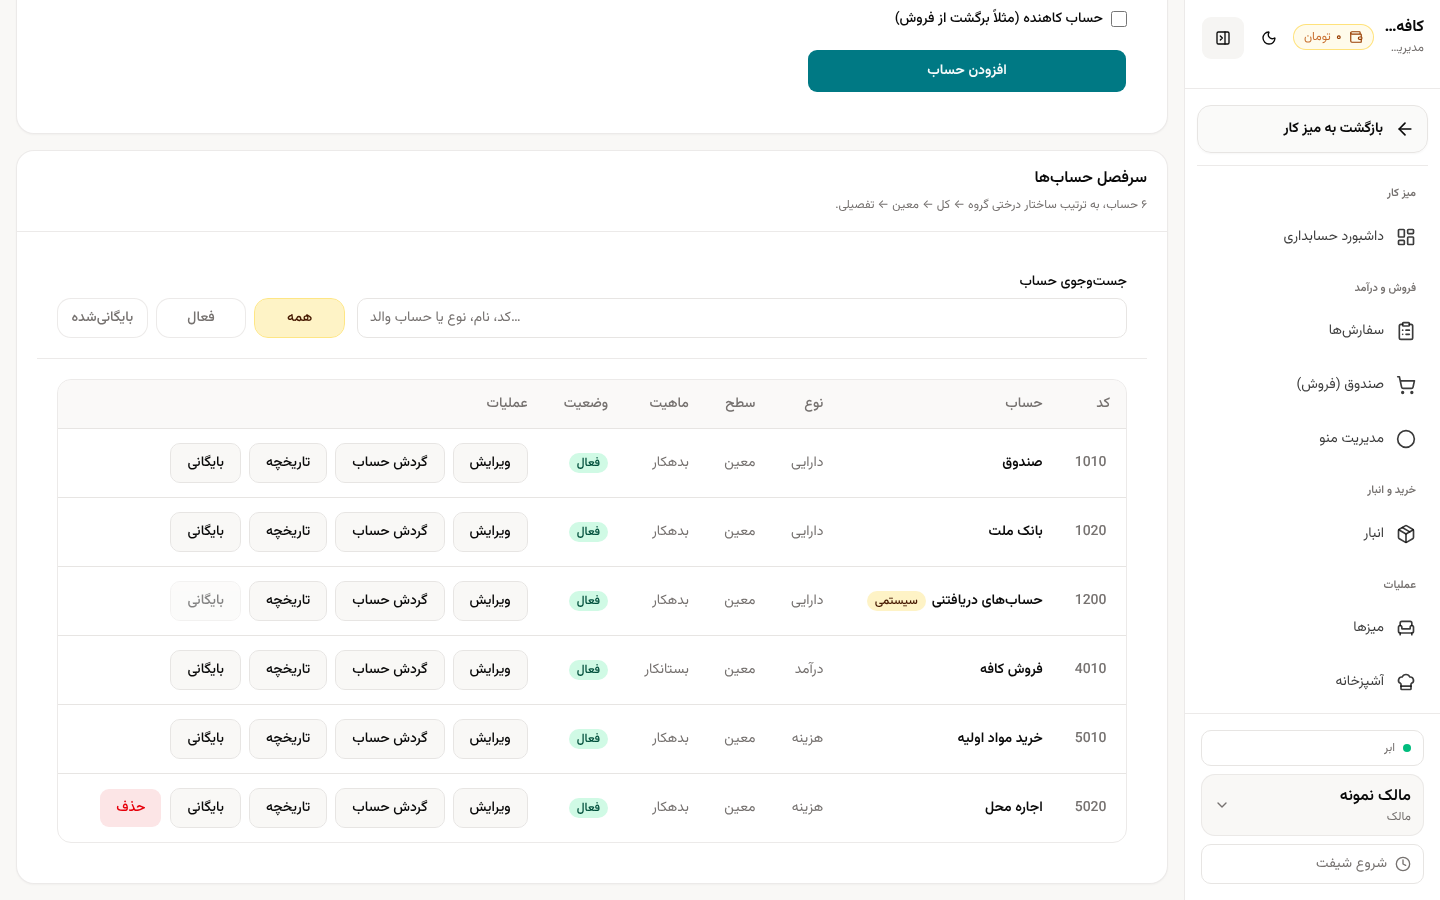
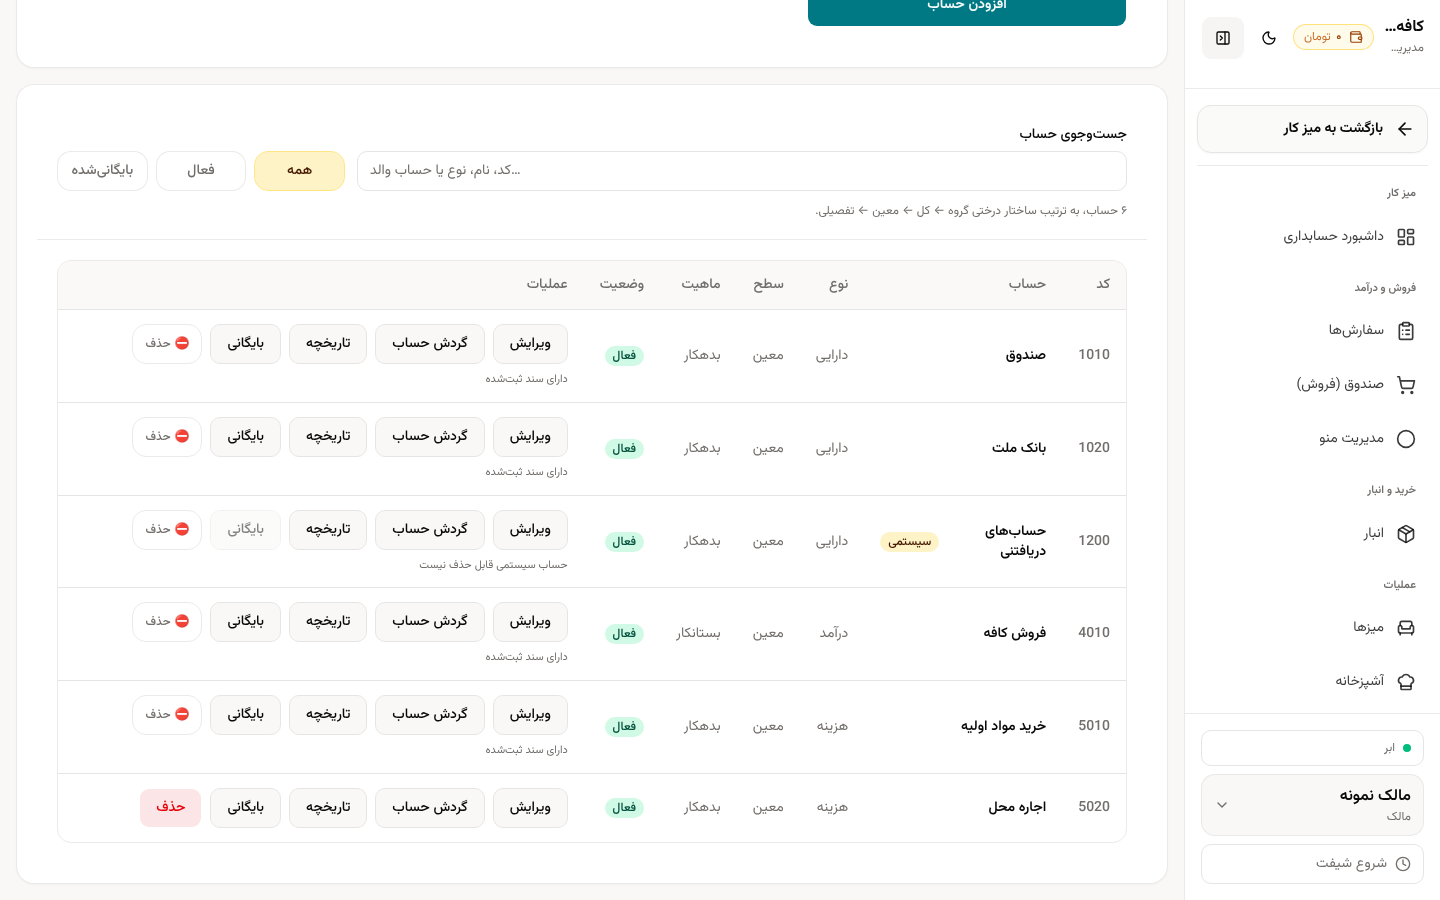
Restore the chart-of-accounts count line and re-record approved baselines
The card title was removed so the page header owns the heading, which also
silently dropped the account/filter count (SectionCard draws a description
only beside a title). The count now sits under the search.

Re-recorded, with Hamid's approval of the new look: chart of accounts (no
card title, explained delete buttons, count line) and the cheque register,
light and dark (branch per row, endorsed/returned badges from #828).

Claude-Session: https://claude.ai/code/session_019xScEoECprnaRnegWnz4w9

diff --git a/src/app/(app)/accounting/chart-of-accounts-section.tsx b/src/app/(app)/accounting/chart-of-accounts-section.tsx
@@ -509,14 +509,7 @@ export function ChartOfAccountsSection({
         </InfoBox>
       )}
 
-      <SectionCard
-        description={
-          filtering
-            ? `${formatPersianNumber(matchCount)} حساب از ${formatPersianNumber(accounts.length)} حساب با این فیلتر پیدا شد.`
-            : `${formatPersianNumber(accounts.length)} حساب، به ترتیب ساختار درختی گروه ← کل ← معین ← تفصیلی.`
-        }
-        bodyClassName="p-0"
-      >
+      <SectionCard bodyClassName="p-0">
         {!canEdit && localError ? <div className="px-4 pt-4 sm:px-5"><ErrorBox>{localError}</ErrorBox></div> : null}
         {notice ? (
           <div className="px-4 pt-4 sm:px-5">
@@ -566,6 +559,14 @@ export function ChartOfAccountsSection({
               ))}
             </div>
           </div>
+          {/* The count lives under the search, not in a card header: the page
+              header owns the title, and a SectionCard draws its description
+              only beside a title, so a header-less card would drop it. */}
+          <p className="mt-3 text-xs text-muted-foreground" aria-live="polite">
+            {filtering
+              ? `${formatPersianNumber(matchCount)} حساب از ${formatPersianNumber(accounts.length)} حساب با این فیلتر پیدا شد.`
+              : `${formatPersianNumber(accounts.length)} حساب، به ترتیب ساختار درختی گروه ← کل ← معین ← تفصیلی.`}
+          </p>
         </div>
         <div className="p-4 sm:p-5">
           {rows.length === 0 ? (

diff --git a/src/app/(app)/accounting/chart-of-accounts-section.test.tsx b/src/app/(app)/accounting/chart-of-accounts-section.test.tsx
@@ -265,5 +265,7 @@ describe("issue #824 §13: heading ownership", () => {
     // The PageHeader (ACCOUNTING_HEADINGS) owns «سرفصل حسابها»; the nested
     // SectionCard must not draw a second one.
     expect(screen.queryByText("سرفصل حسابها")).toBeNull();
+    // Without a card title the count must still be shown, under the search.
+    expect(screen.getByText(/حساب، به ترتیب ساختار درختی/)).not.toBeNull();
   });
 });
